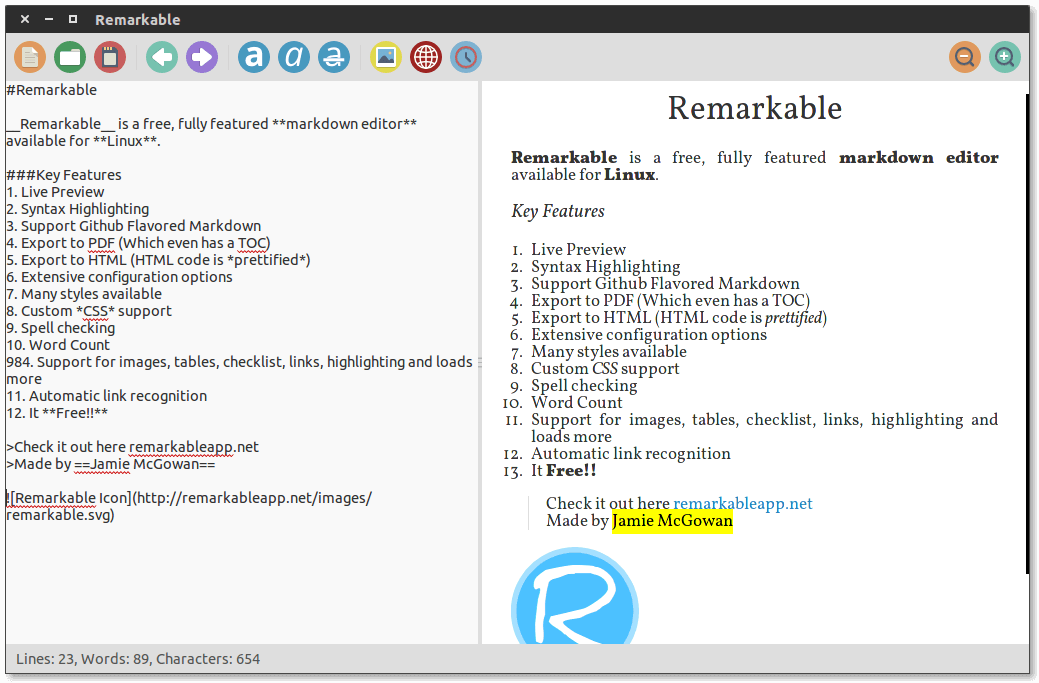
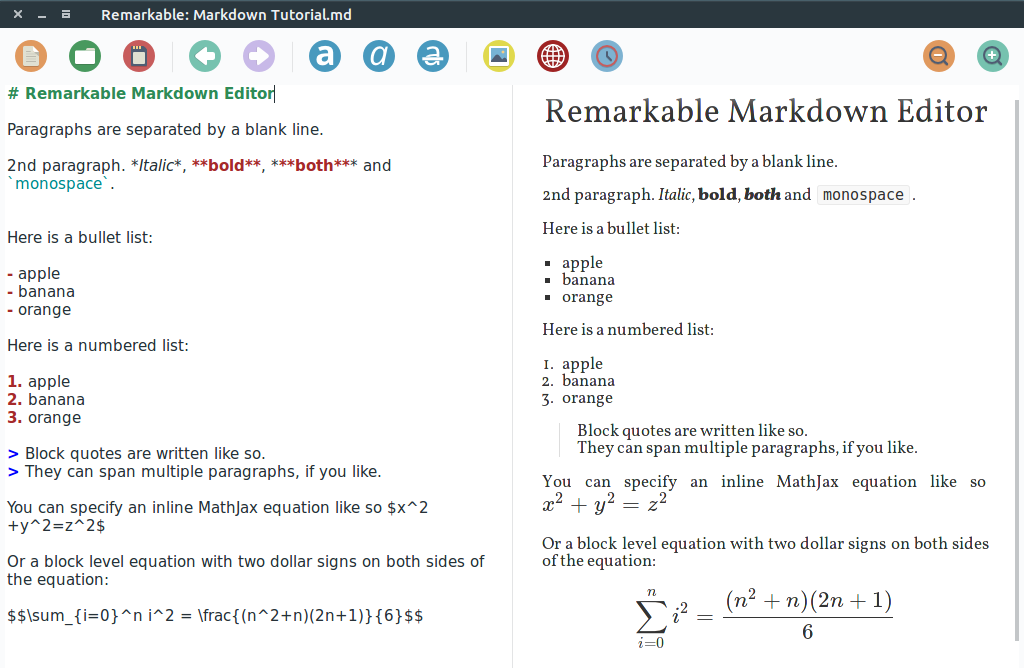
Links for 1.87

diff --git a/linux/download.html b/linux/download.html
@@ -45,7 +45,7 @@
         </div>
     </div>
     <div class="content">
-        <h2 class="content-head is-center">Download Remarkable (v1.75)</h2>
+        <h2 class="content-head is-center">Download Remarkable (v1.87)</h2>
         <div class="pure-u-1">
             <div class="pure-img is-center">
                 <script async src="//pagead2.googlesyndication.com/pagead/js/adsbygoogle.js"></script>
@@ -81,10 +81,10 @@
                 </p>
                 <div class="pure-g">
                     <div class="pure-u-1 pure-u-md-1-2 is-center">
-                        <a href="../files/remarkable_1.75_all.deb" target="_blank" class="button-success pure-button" onclick="ga('send', 'event', 'download', 'click', 'deb', 1);">Download .deb</a>
+                        <a href="../files/remarkable_1.87_all.deb" target="_blank" class="button-success pure-button" onclick="ga('send', 'event', 'download', 'click', 'deb', 1);">Download .deb</a>
                     </div>
                     <div class="pure-u-1 pure-u-md-1-2 is-center">
-                        <a href="../files/remarkable-1.75.rpm" target="_blank" class="button-success pure-button" onclick="ga('send', 'event', 'download', 'click', 'rpm', 1);">Download .rpm</a>
+                        <a href="../files/remarkable-1.87-1.rpm" target="_blank" class="button-success pure-button" onclick="ga('send', 'event', 'download', 'click', 'rpm', 1);">Download .rpm</a>
                     </div>
                 </div>
                 <div class="pure-g">

diff --git a/change_log.md b/change_log.md
@@ -1,6 +1,20 @@
 #Remarkable
 ###Change Log (written using Remarkable!)
 
+[Remarkable homepage](http://remarkableapp.github.io)
+[Remarkable repository](http://github.com/jamiemcg/remarkable) 
+
+**Version 1.87**
+- **New**: Syntax Highlighting for markdown in editor pane
+- **New**: Horizontal Layout
+- **New**: Display line numbers
+- **New**: Join and Sort lines
+- **New**: Paste Images (thanks to **@pkorpine**)
+- **New**: Built in markdown tutorial (Help -> Markdown Tutorial)
+- **Improved**: Now launches new Remarkable process when opening/creating files
+- **Improved**: Styles (syntax highlighting in darker themes)
+- **Fix**: Settings file bug
+
 **Version 1.75**
 - **Fix**: Fix startup crash error on Ubuntu 16.04 and other distros
 - **New**: Local path image support (buggy)
